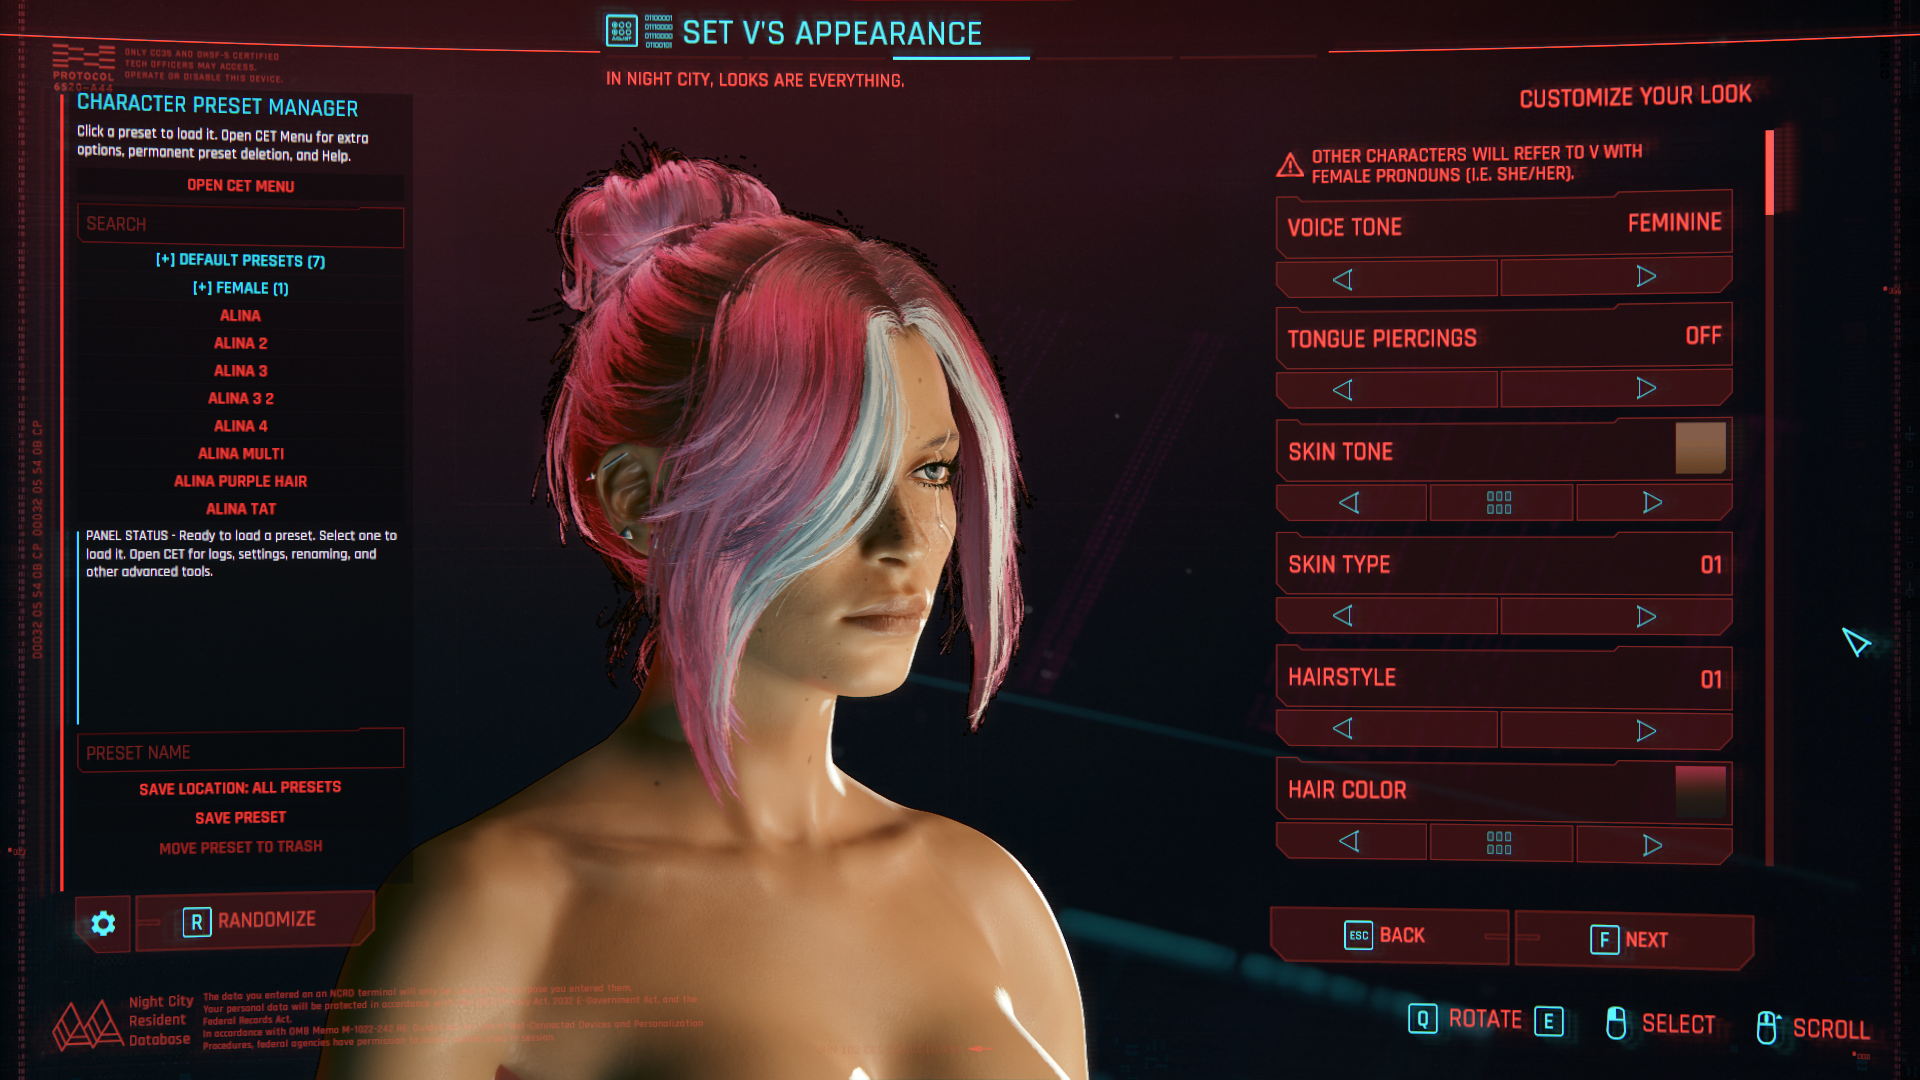
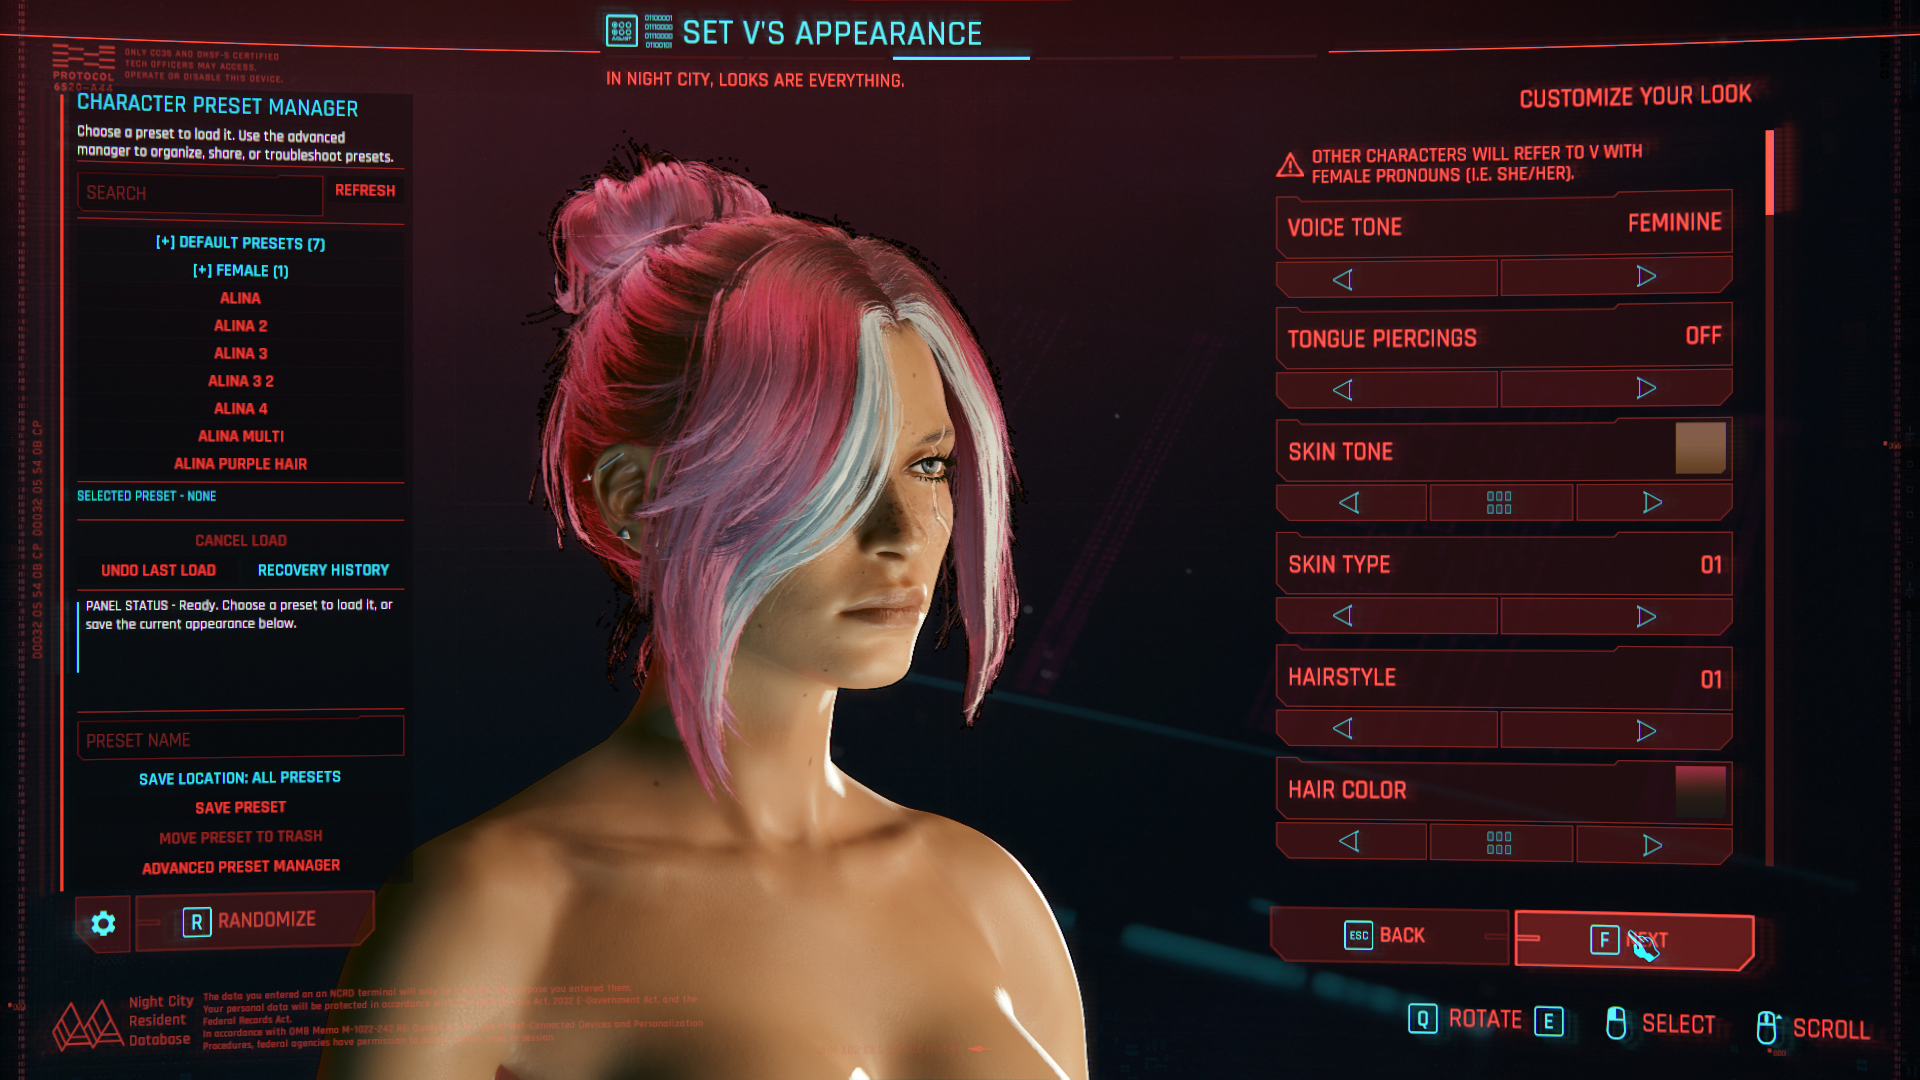
Refresh the v3.0.8 simple menu preview

diff --git a/CHANGELOG.md b/CHANGELOG.md
@@ -55,6 +55,8 @@ used. See the README and in-game Help for current instructions.
   selected-preset details, load controls, status, and save controls.
 - Reorganizes the README into a clearer feature summary, version overview,
   previews, and expandable instruction sections.
+- Refreshes the README's character customization preview with the finished
+  v3.0.8 panel layout.
 
 </details>
 
